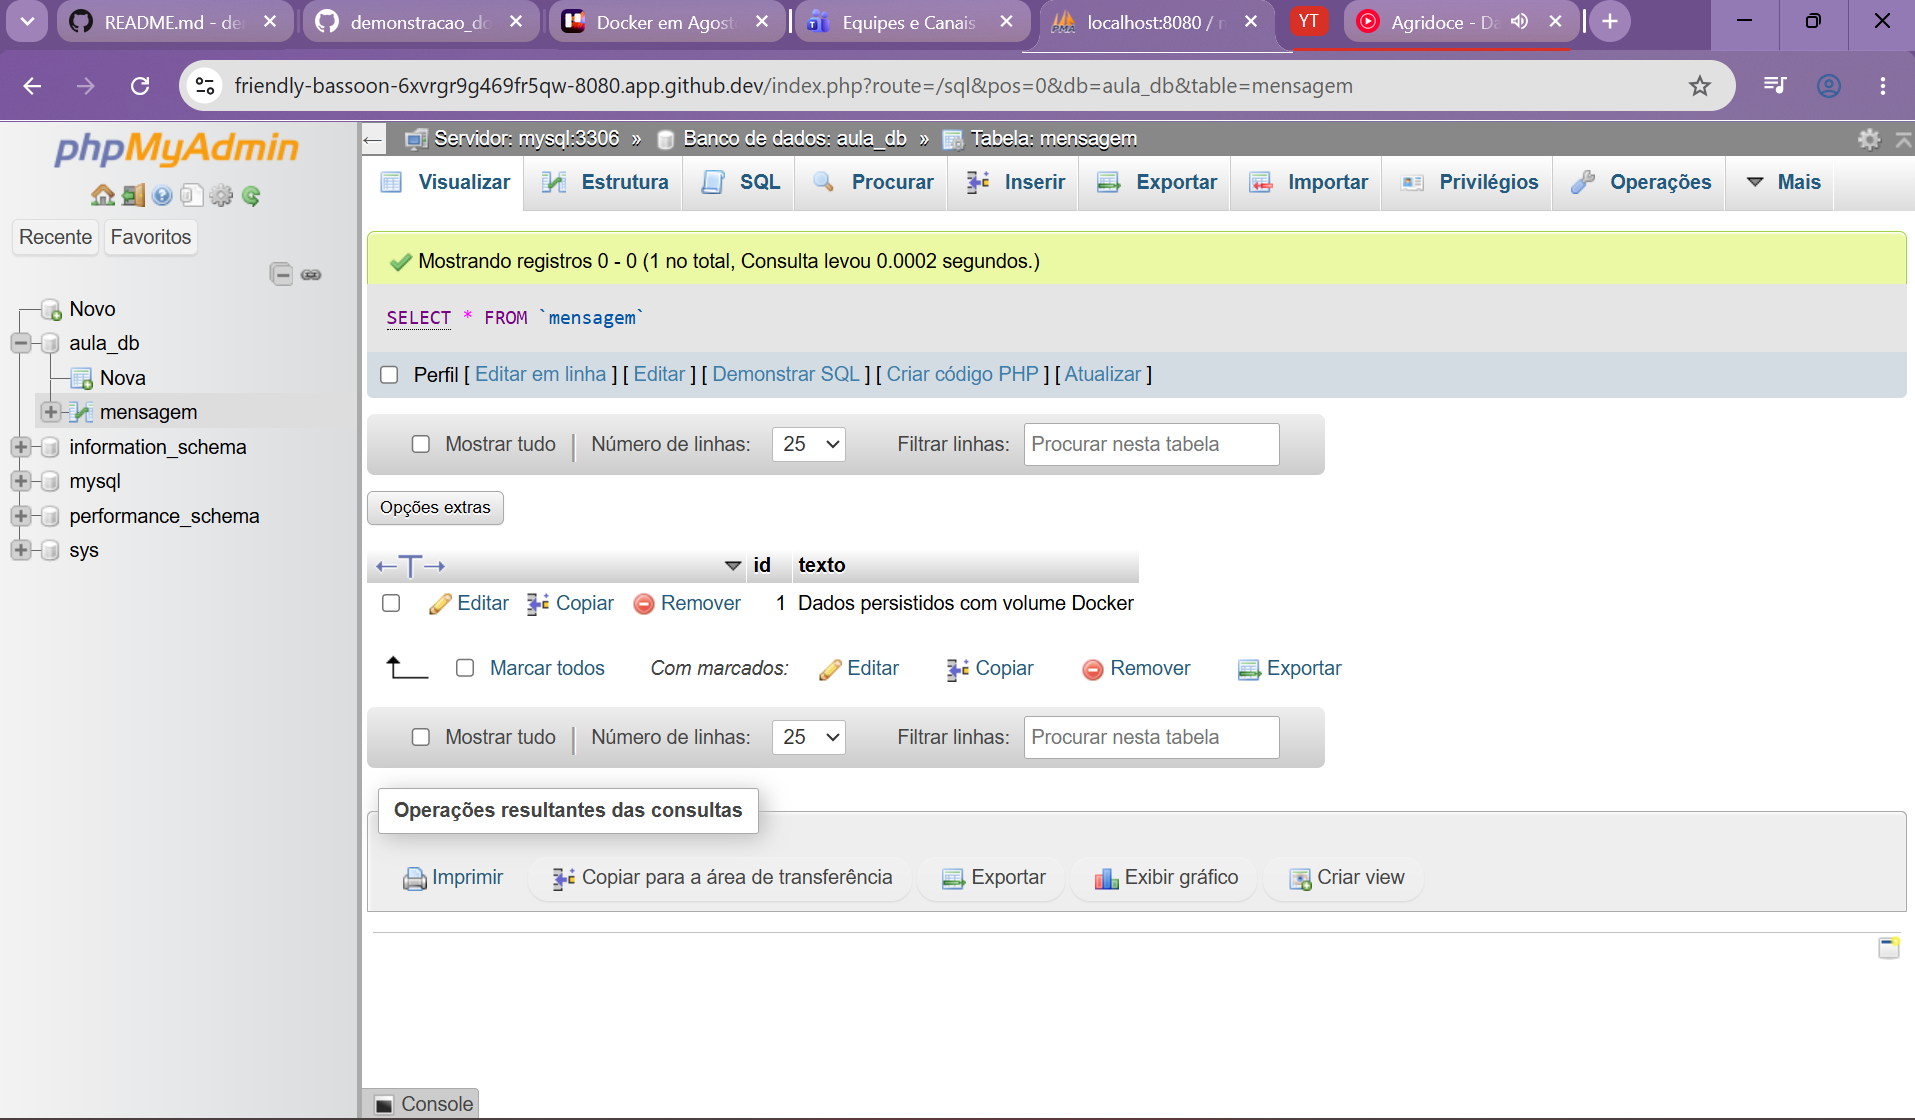
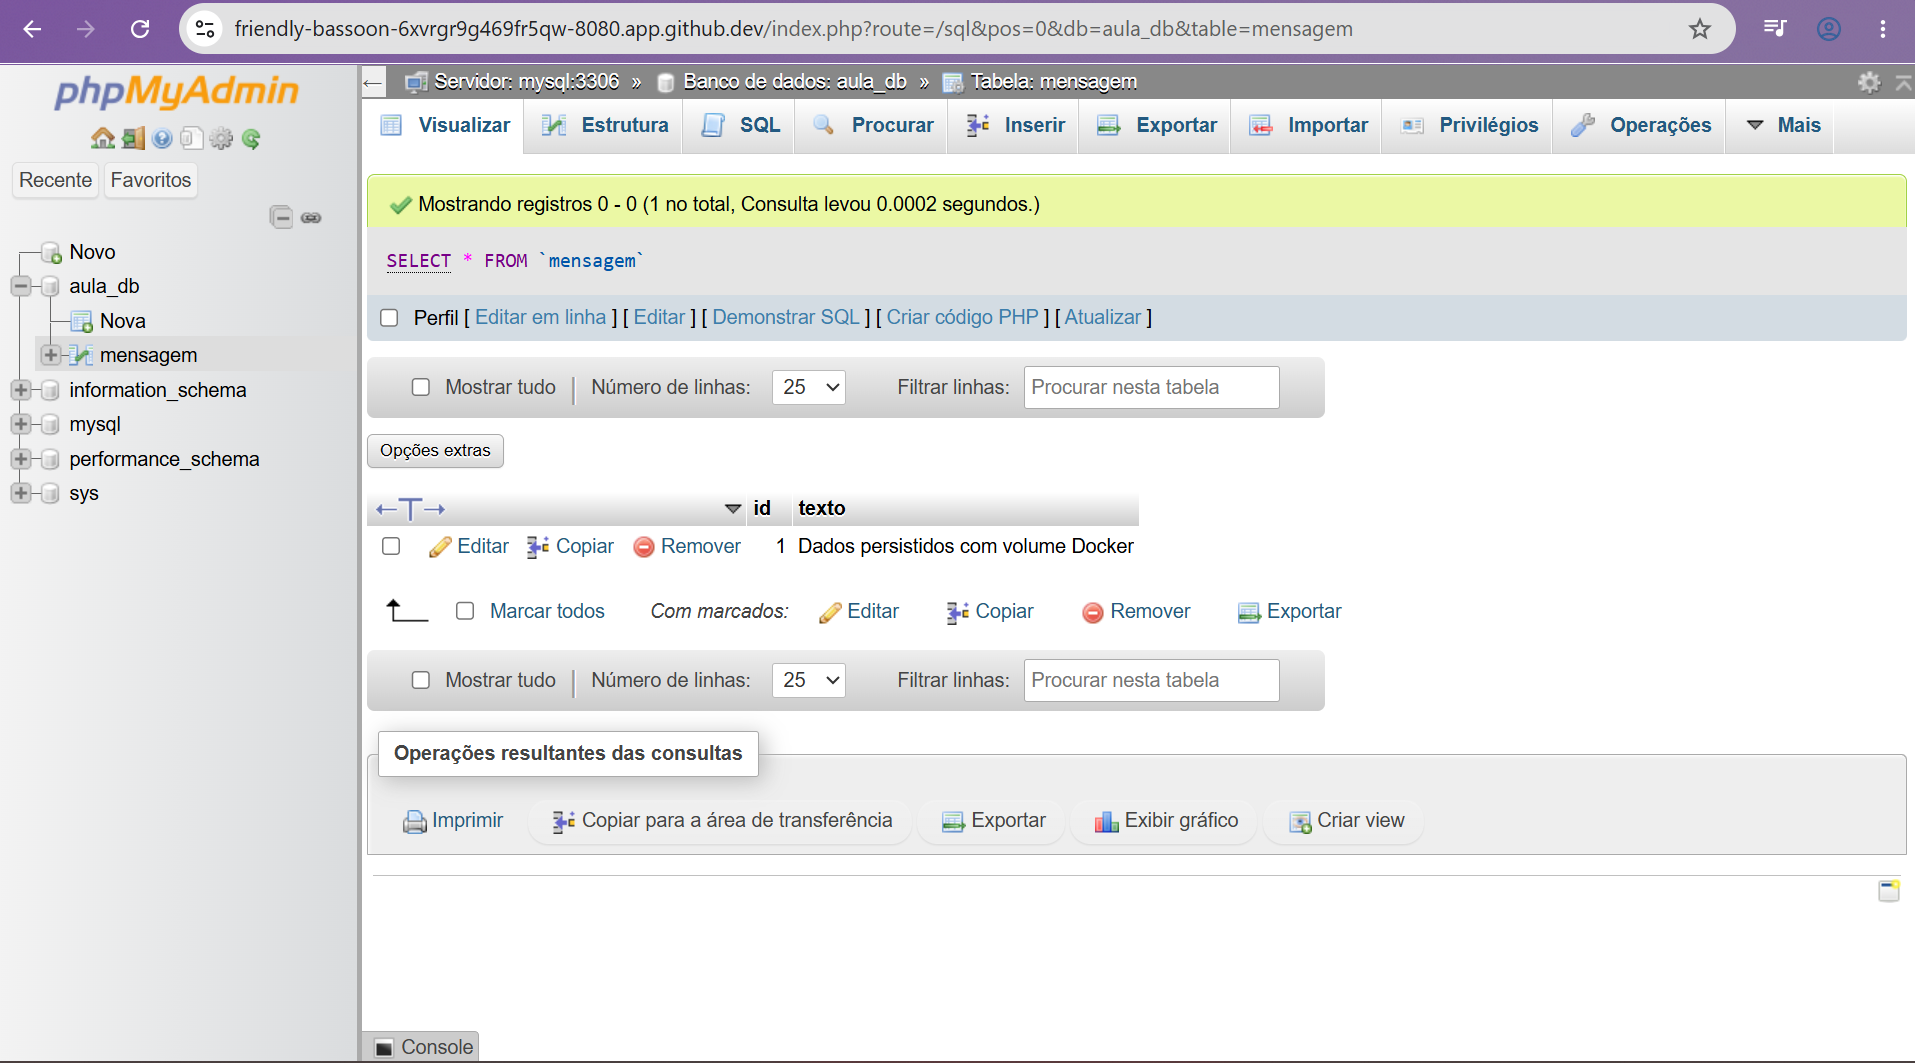
atualização imagem

diff --git a/README.md b/README.md
@@ -47,7 +47,7 @@ Evidência 3:
 Olá! Esta imagem Docker foi criada na aula de Integração e Entrega Contínua@M41S4 ➜ /workspaces/demonstracao_docker (main)
 
 Evidência 4:
-![Img](img1.png)
+
 
 
 **Outras perguntas:**
